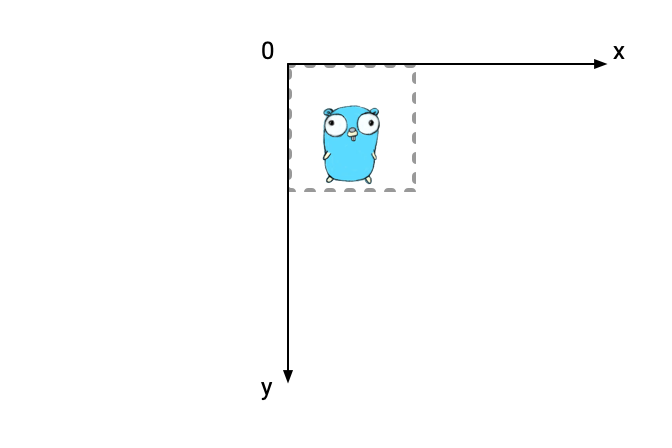
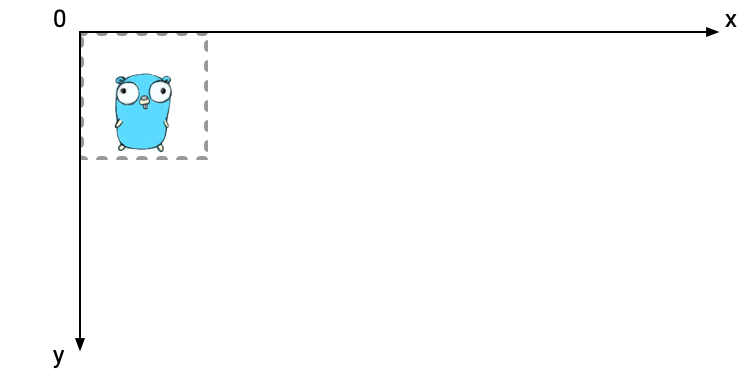
documents/geometrymatrix: Update images

diff --git a/docs/documents/geometrymatrix.html b/docs/documents/geometrymatrix.html
@@ -186,7 +186,7 @@ g
     <p>If the multiplicand is identity, the image is rotated by the <code>Rotate</code> arguments. The center of rotating is the left-upper corner.
   </div>
   <div class="grid-item-4">
-    <p>Of course you can combinate multiple operations of a geometry matrix. They are represented as multiplication of matrices. Note that the order of multiplication matters. For example, the result of translating then rotating an image is, in general, different from rotating then translating the image. In Ebiten, operations are chained by left-multiplying, then the actual operation order is right to left in mathematical expressions.</p>
+    <p>Of course you can combinate multiple operations of a geometry matrix. They are represented as multiplication of matrices. Note that the order of multiplication matters. For example, the result of translating then scaling an image is, in general, different from scaling then translating the image. In Ebiten, operations are chained by left-multiplying, then the actual operation order is right to left in mathematical expressions.</p>
   </div>
   <div class="grid-item-2">
     <p class="mathjax">\begin{equation}
@@ -196,18 +196,18 @@ g
   0 & 0 & 1 \\
 \end{bmatrix}
 \begin{bmatrix}
-  \cos(\theta) & -\sin(\theta) & 0 \\
-  \sin(\theta) & \cos(\theta) & 0 \\
+  s_x & 0 & 0 \\
+  0 & s_y & 0 \\
   0 & 0 & 1 \\
 \end{bmatrix}
 \end{equation}</p>
-    <p class="img"><img src="/images/documents/geometrymatrix/rotate_translate.png" width="456"></p>
+    <p class="img"><img src="/images/documents/geometrymatrix/scale_translate.png" width="456"></p>
   </div>
   <div class="grid-item-2">
     <p class="mathjax">\begin{equation}
 \begin{bmatrix}
-  \cos(\theta) & -\sin(\theta) & 0 \\
-  \sin(\theta) & \cos(\theta) & 0 \\
+  s_x & 0 & 0 \\
+  0 & s_y & 0 \\
   0 & 0 & 1 \\
 \end{bmatrix}
 \begin{bmatrix}
@@ -216,7 +216,7 @@ g
   0 & 0 & 1 \\
 \end{bmatrix}
 \end{equation}</p>
-    <p class="img"><img src="/images/documents/geometrymatrix/translate_rotate.png" width="456"></p>
+    <p class="img"><img src="/images/documents/geometrymatrix/translate_scale.png" width="456"></p>
   </div>
 </div>
 

diff --git a/contents/documents/geometrymatrix.html b/contents/documents/geometrymatrix.html
@@ -100,7 +100,7 @@ g
     <p>If the multiplicand is identity, the image is rotated by the <code>Rotate</code> arguments. The center of rotating is the left-upper corner.
   </div>
   <div class="grid-item-4">
-    <p>Of course you can combinate multiple operations of a geometry matrix. They are represented as multiplication of matrices. Note that the order of multiplication matters. For example, the result of translating then rotating an image is, in general, different from rotating then translating the image. In Ebiten, operations are chained by left-multiplying, then the actual operation order is right to left in mathematical expressions.</p>
+    <p>Of course you can combinate multiple operations of a geometry matrix. They are represented as multiplication of matrices. Note that the order of multiplication matters. For example, the result of translating then scaling an image is, in general, different from scaling then translating the image. In Ebiten, operations are chained by left-multiplying, then the actual operation order is right to left in mathematical expressions.</p>
   </div>
   <div class="grid-item-2">
     <p class="mathjax">\begin{equation}
@@ -110,18 +110,18 @@ g
   0 & 0 & 1 \\
 \end{bmatrix}
 \begin{bmatrix}
-  \cos(\theta) & -\sin(\theta) & 0 \\
-  \sin(\theta) & \cos(\theta) & 0 \\
+  s_x & 0 & 0 \\
+  0 & s_y & 0 \\
   0 & 0 & 1 \\
 \end{bmatrix}
 \end{equation}</p>
-    <p class="img"><img src="/images/documents/geometrymatrix/rotate_translate.png" width="456"></p>
+    <p class="img"><img src="/images/documents/geometrymatrix/scale_translate.png" width="456"></p>
   </div>
   <div class="grid-item-2">
     <p class="mathjax">\begin{equation}
 \begin{bmatrix}
-  \cos(\theta) & -\sin(\theta) & 0 \\
-  \sin(\theta) & \cos(\theta) & 0 \\
+  s_x & 0 & 0 \\
+  0 & s_y & 0 \\
   0 & 0 & 1 \\
 \end{bmatrix}
 \begin{bmatrix}
@@ -130,6 +130,6 @@ g
   0 & 0 & 1 \\
 \end{bmatrix}
 \end{equation}</p>
-    <p class="img"><img src="/images/documents/geometrymatrix/translate_rotate.png" width="456"></p>
+    <p class="img"><img src="/images/documents/geometrymatrix/translate_scale.png" width="456"></p>
   </div>
 </div>
